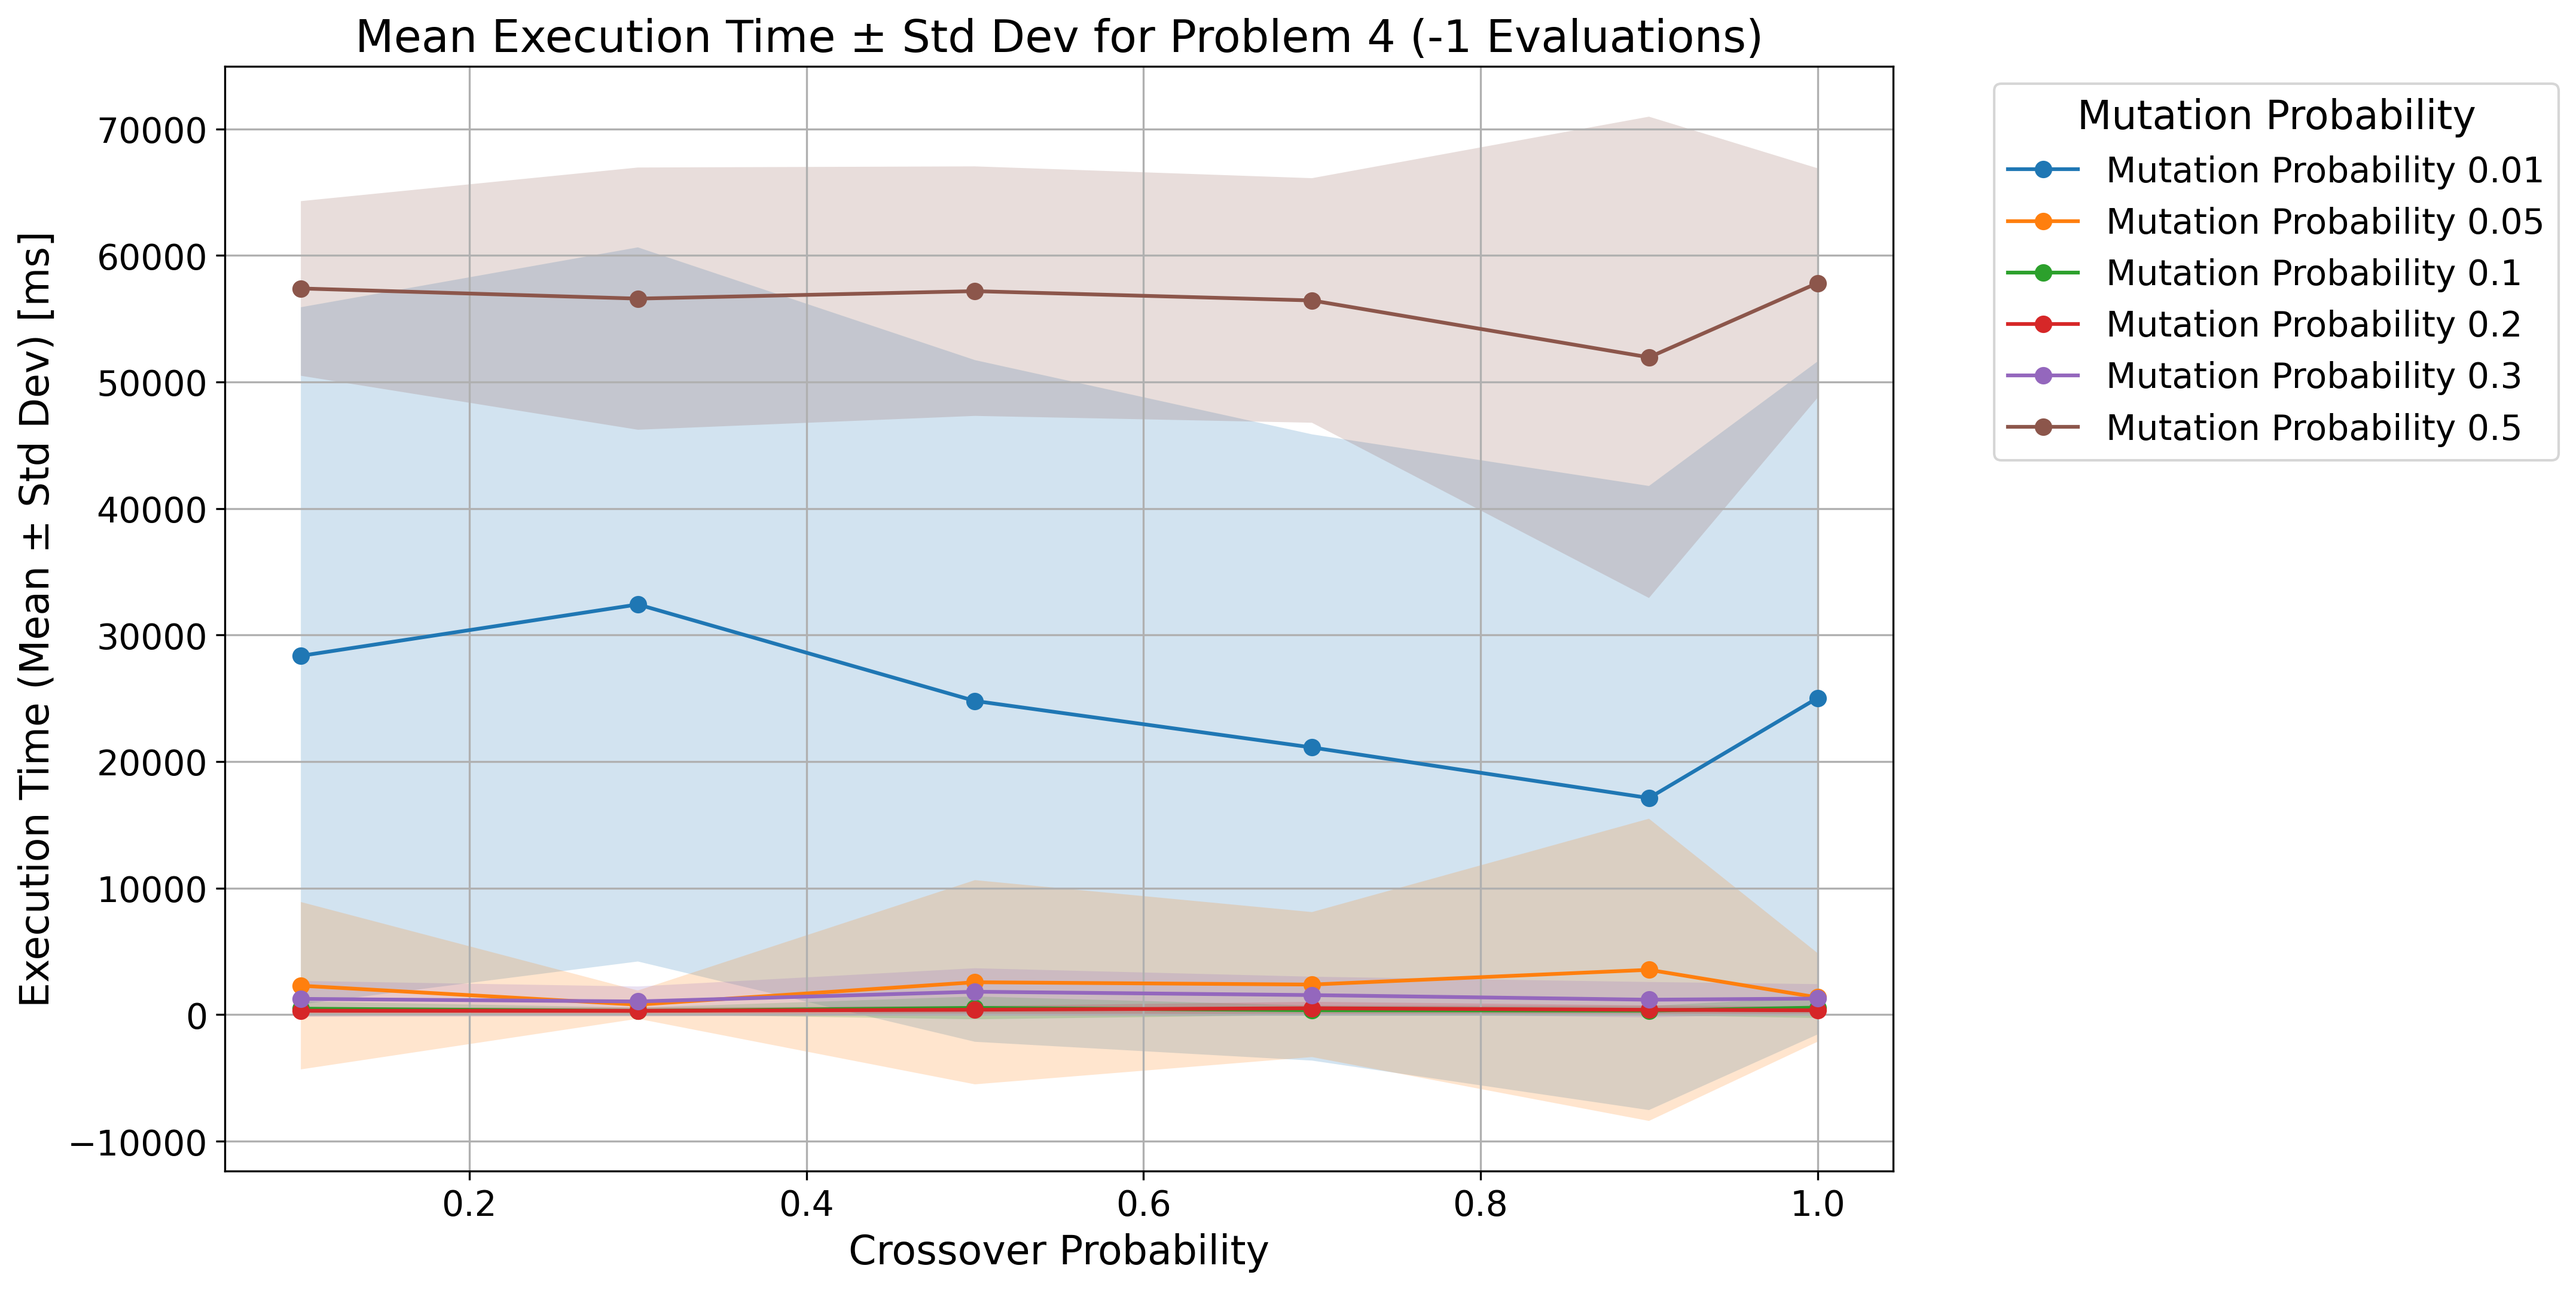
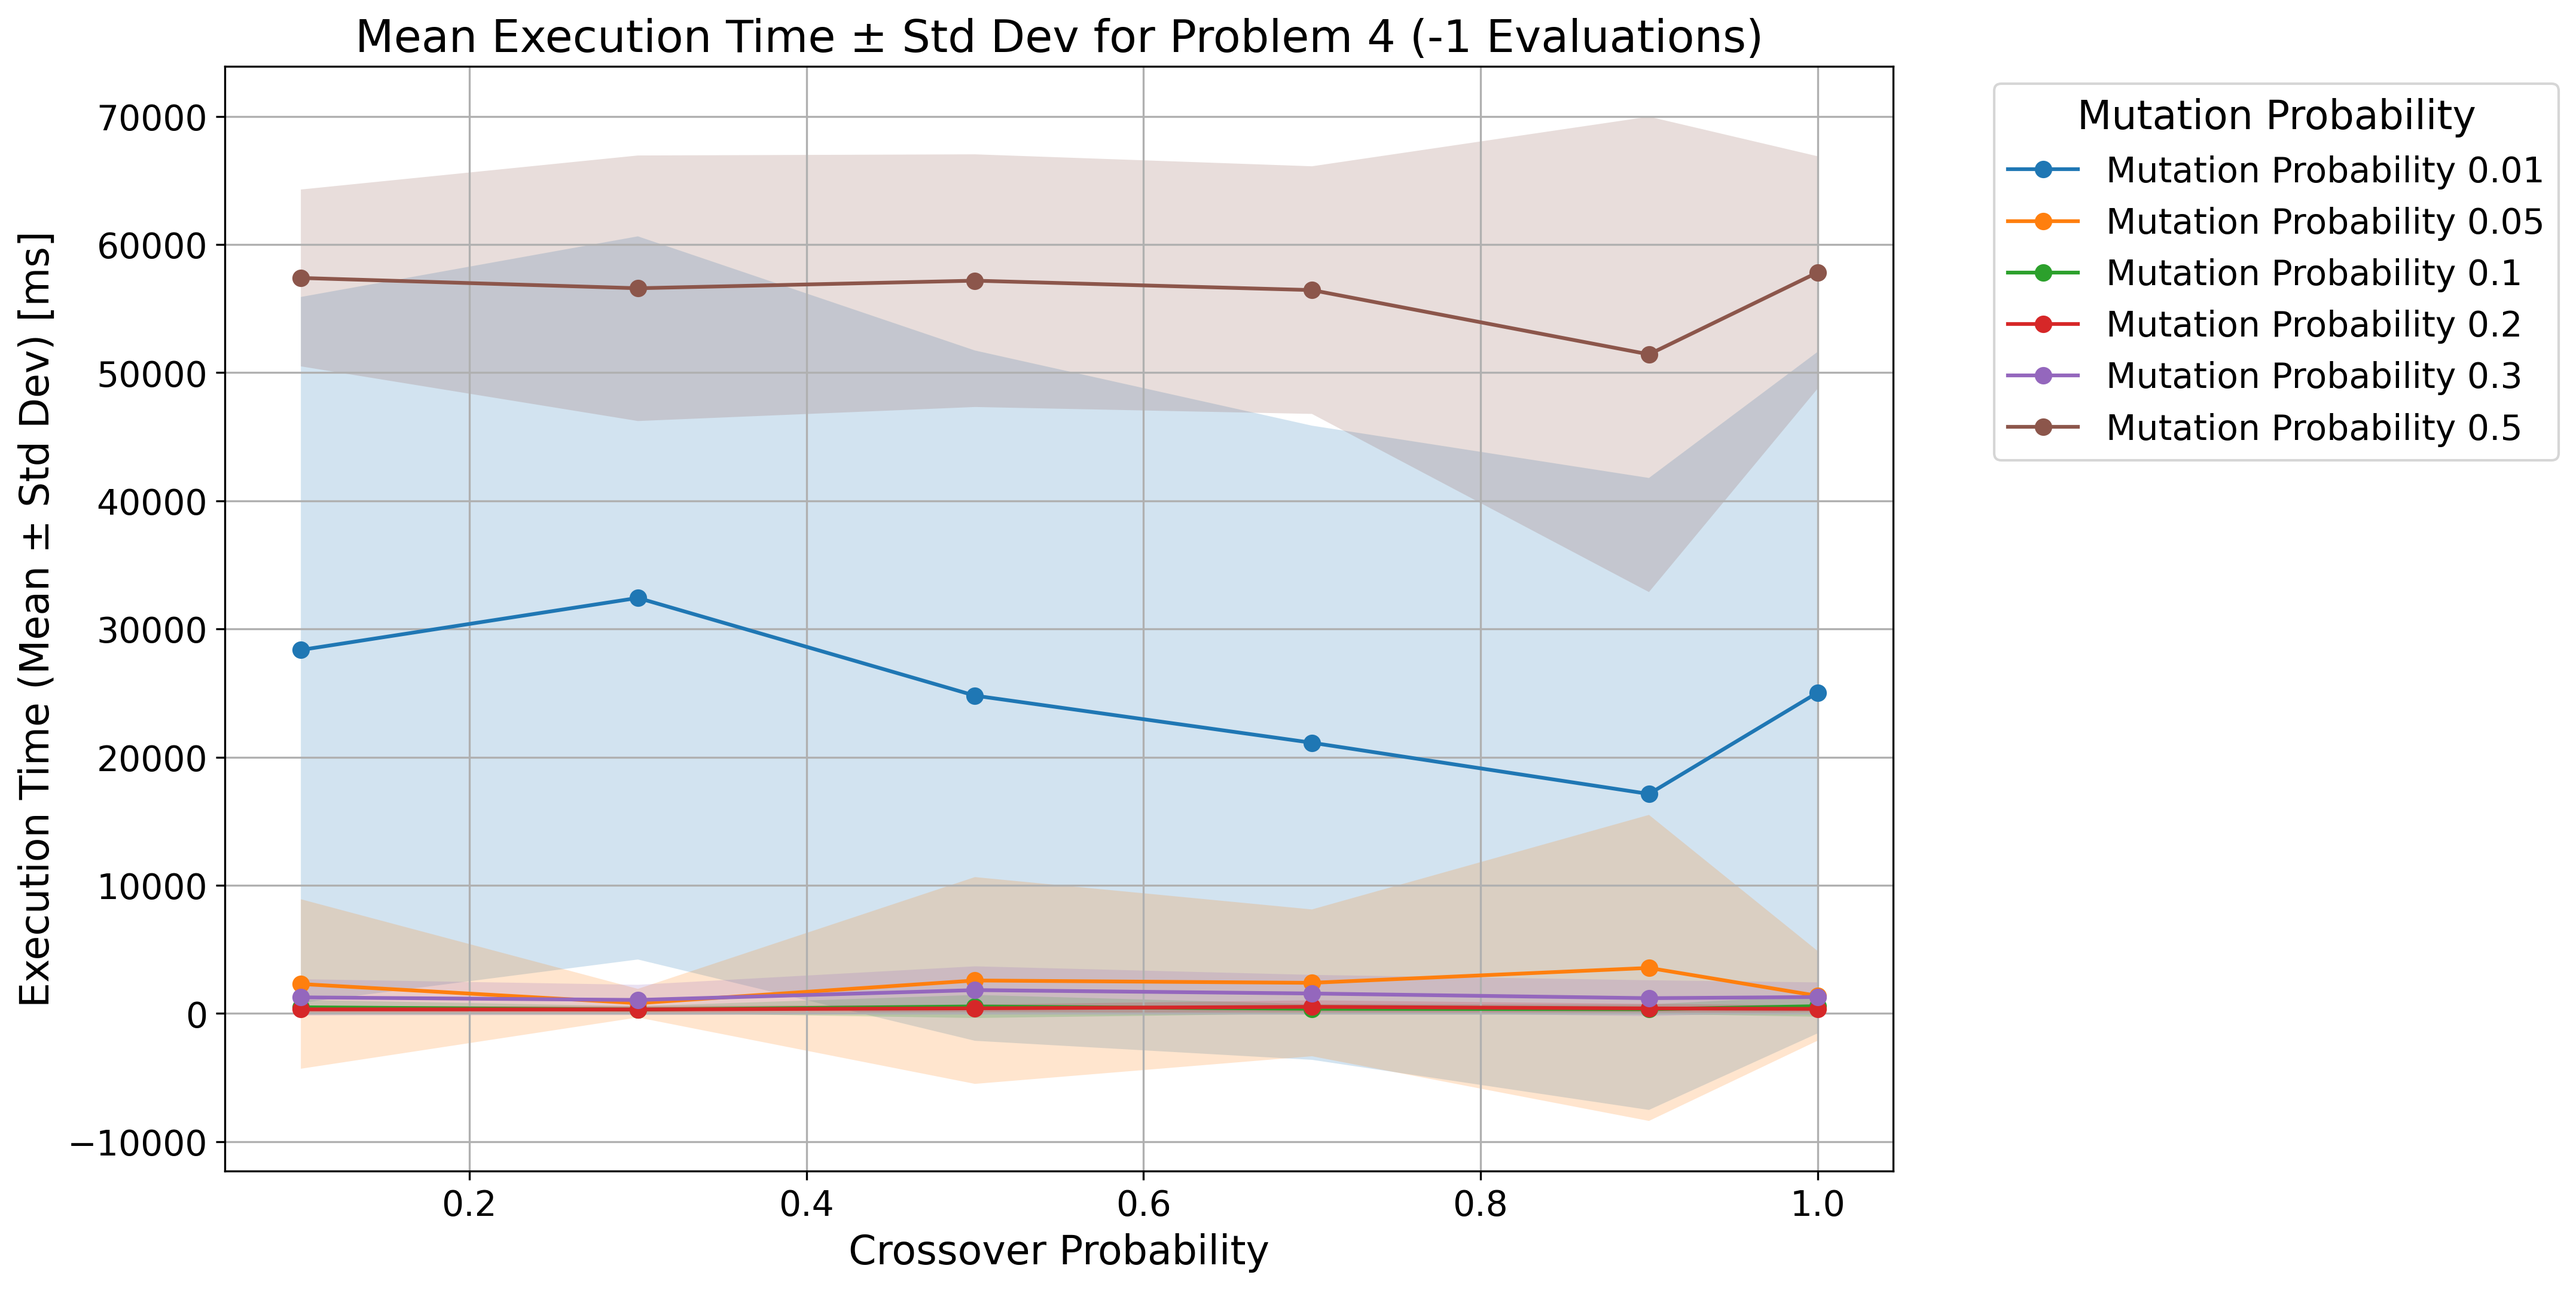
Fix error in result:
Changes:

/home/javier/Documents/Graduate/UIMP_MUIIA/2_METAHURISTICOS/assignments/project/KnapsackGeneticAlgorithm/results/experiment_all/function_evaluations_-1/problem_4/crossover_0.5/mutation_0.5/results_26.json

  "executionTime": 60001,

/home/javier/Documents/Graduate/UIMP_MUIIA/2_METAHURISTICOS/assignments/project/KnapsackGeneticAlgorithm/results/experiment_all/function_evaluations_-1/problem_4/crossover_0.9/mutation_0.5/results_22.json

  "executionTime": 76130,

diff --git a/analysis/-1_evaluations/problem_4.tex b/analysis/-1_evaluations/problem_4.tex
@@ -22,7 +22,7 @@ Crossover Probability & Mutation Probability & Mean Fitness & Std Fitness & Mean
 0.50 & 0.10 & 12400.00 & 0.00 & 539.94 & 900.51 \\
 0.50 & 0.20 & 12400.00 & 0.00 & 393.90 & 294.99 \\
 0.50 & 0.30 & 12400.00 & 0.00 & 1817.42 & 1853.99 \\
-0.50 & 0.50 & 12367.10 & 29.35 & 57179.32 & 9858.78 \\
+0.50 & 0.50 & 12367.10 & 29.35 & 57179.29 & 9858.77 \\
 0.70 & 0.01 & 12394.19 & 12.32 & 21118.90 & 24744.00 \\
 0.70 & 0.05 & 12400.00 & 0.00 & 2383.45 & 5727.47 \\
 0.70 & 0.10 & 12400.00 & 0.00 & 357.10 & 370.99 \\
@@ -34,7 +34,7 @@ Crossover Probability & Mutation Probability & Mean Fitness & Std Fitness & Mean
 0.90 & 0.10 & 12400.00 & 0.00 & 325.65 & 366.00 \\
 0.90 & 0.20 & 12400.00 & 0.00 & 387.35 & 356.10 \\
 0.90 & 0.30 & 12400.00 & 0.00 & 1185.55 & 1399.64 \\
-0.90 & 0.50 & 12370.00 & 27.69 & 51948.26 & 19017.58 \\
+0.90 & 0.50 & 12370.00 & 27.69 & 51427.94 & 18548.80 \\
 1.00 & 0.01 & 12375.16 & 98.42 & 25027.29 & 26590.29 \\
 1.00 & 0.05 & 12400.00 & 0.00 & 1370.35 & 3505.77 \\
 1.00 & 0.10 & 12400.00 & 0.00 & 562.74 & 822.08 \\
